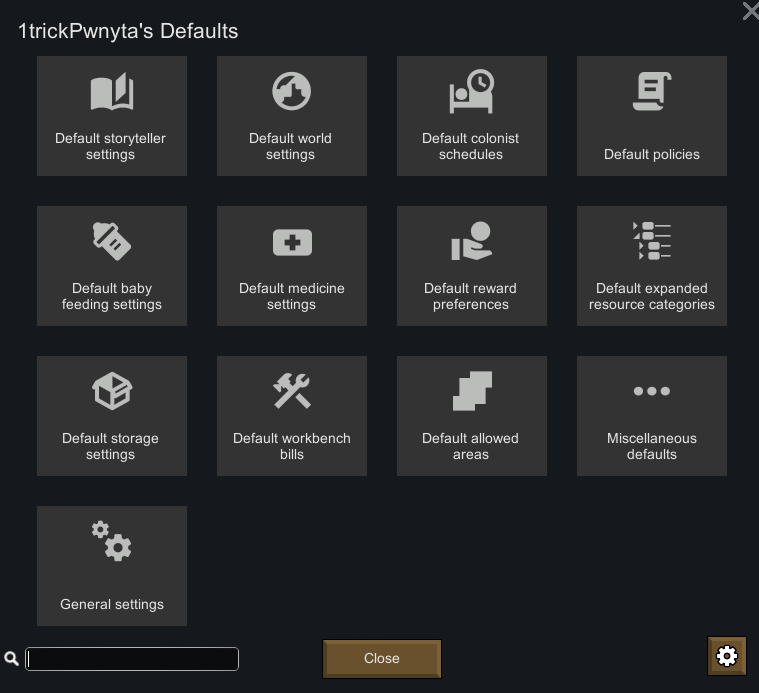
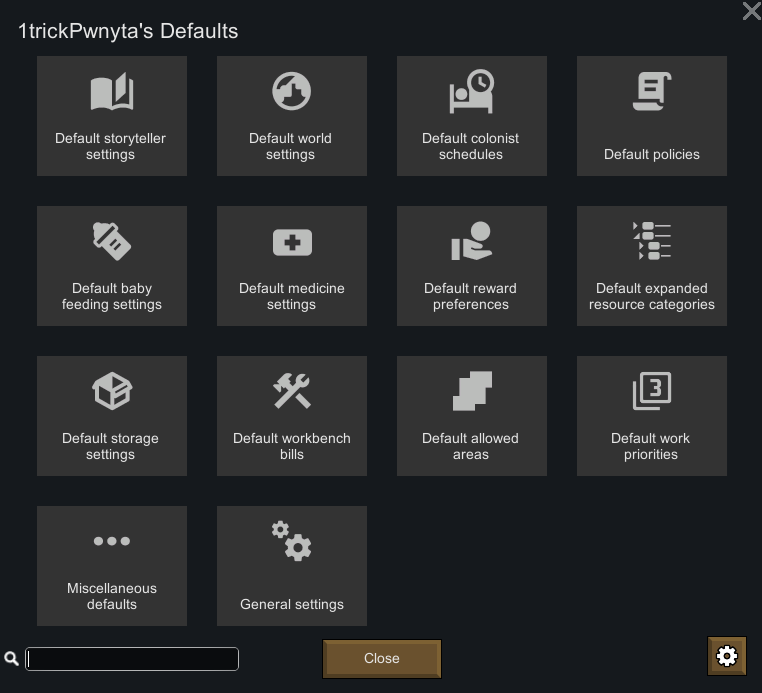
Update media

diff --git a/Media/SettingsCategoryDescriptions.html b/Media/SettingsCategoryDescriptions.html
@@ -1,0 +1,227 @@
+<html>
+	<head>
+		<style>
+			body {
+				background-color: #1B2838;
+				max-width: 628px;
+				font-family: sans-serif;
+				font-size: 15px;
+				margin: 0px;
+			}
+			
+			.category {
+				border: 2px solid #BBBDBB;
+				border-radius: 2px;
+				background-color: #15191D;
+				color: #BBBDBB;
+				padding: 10px;
+				box-shadow: 2px 2px black;
+				margin-bottom: 10px;
+			}
+			
+			.category .category-header {
+				display: table-row;
+			}
+			
+			.category .category-header img {
+				display: table-cell;
+				vertical-align: middle;
+				margin-right: 10px;
+				width: 50px;
+			}
+			
+			.category .category-header .category-title {
+				display: table-cell;
+				vertical-align: middle;
+				font-family: "Wendy One";
+				font-size: 30px;
+			}
+			
+			.category .category-body {
+				margin-top: 10px;
+			}
+			
+			.category .category-body ul {
+				margin: 0px;
+			}
+			
+			.category .category-body ul li {
+				padding-top: 5px;
+			}
+			
+			.category .category-additional {
+				display: table-cell;
+				padding-top: 10px;
+				padding-left: 30px;
+				height: 30px;
+				vertical-align: middle;
+				background-image: url("QuickOptions.png");
+				background-repeat: no-repeat;
+				background-position: 0px 10px;
+			}
+			
+			.category .category-footer {
+				margin-top: 10px;
+			}
+			
+			.dlc-required {
+				color: #888788;
+				font-style: italic;
+			}
+		</style>
+	</head>
+	<body>
+	
+		<div class="category">
+			<div class="category-header">
+				<img src="../1.6/Textures/DefaultSettingsCategoryIcons/Storyteller.png" />
+				<span class="category-title">Default storyteller settings</span>
+			</div>
+			<div class="category-body">
+				Set the default storyteller/difficulty settings to use for a new colony, including custom difficulty settings.
+			</div>
+		</div>
+		
+		<div class="category">
+			<div class="category-header">
+				<img src="../1.6/Textures/DefaultSettingsCategoryIcons/World.png" />
+				<span class="category-title">Default world settings</span>
+			</div>
+			<div class="category-body">
+				Set the default world and map settings to use for a new colony.
+			</div>
+		</div>
+		
+		<div class="category">
+			<div class="category-header">
+				<img src="../1.6/Textures/DefaultSettingsCategoryIcons/Schedule.png" />
+				<span class="category-title">Default colonist schedules</span>
+			</div>
+			<div class="category-body">
+				Set custom default schedules for colonists. You can create alternating schedules and the mod will cycle between them when assigning them to new colonists.
+			</div>
+		</div>
+		
+		<div class="category">
+			<div class="category-header">
+				<img src="../1.6/Textures/DefaultSettingsCategoryIcons/Policies.png" />
+				<span class="category-title">Default policies</span>
+			</div>
+			<div class="category-body">
+				Set custom default apparel, food, drug, and reading policies that will be copied to each new colony.
+			</div>
+		</div>
+		
+		<div class="category">
+			<div class="category-header">
+				<img src="../1.6/Textures/DefaultSettingsCategoryIcons/BabyFeeding.png" />
+				<span class="category-title">Default baby feeding settings</span>
+			</div>
+			<div class="category-body">
+				Set the default autofeed setting for colonists based on relationship to baby and whether they are lactating. Also allows you to set which foods babies can be fed by default.
+			</div>
+			<div class="category-footer">
+				<span class="dlc-required">Biotech only.</span>
+			</div>
+		</div>
+		
+		<div class="category">
+			<div class="category-header">
+				<img src="../1.6/Textures/DefaultSettingsCategoryIcons/Medicine.png" />
+				<span class="category-title">Default medicine settings</span>
+			</div>
+			<div class="category-body">
+				Set the default medicine settings to use for a new colony.
+			</div>
+			<div class="category-additional">
+				Includes additional settings for default medicine type and amount to carry and whether guests should carry your medicine as well.
+			</div>
+		</div>
+		
+		<div class="category">
+			<div class="category-header">
+				<img src="../1.6/Textures/DefaultSettingsCategoryIcons/Rewards.png" />
+				<span class="category-title">Default reward preferences</span>
+			</div>
+			<div class="category-body">
+				Set the default reward preferences to use for a new colony.
+			</div>
+		</div>
+		
+		<div class="category">
+			<div class="category-header">
+				<img src="../1.6/Textures/DefaultSettingsCategoryIcons/ResourceCategories.png" />
+				<span class="category-title">Default expanded resource categories</span>
+			</div>
+			<div class="category-body">
+				Set which resource tree categories are expanded by default in categorized mode.
+			</div>
+		</div>
+		
+		<div class="category">
+			<div class="category-header">
+				<img src="../1.6/Textures/DefaultSettingsCategoryIcons/Storage.png" />
+				<span class="category-title">Default storage settings</span>
+			</div>
+			<div class="category-body">
+				Configure the default settings for stockpile zones, dumping stockpile zones, and storage buildings such as shelves. You can also create your own custom stockpile zone types with their own settings.
+			</div>
+			<div class="category-additional">
+				Includes an additional setting for allowing removing items from outfit stands by default <span class="dlc-required">(Odyssey only)</span>.
+			</div>
+		</div>
+		
+		<div class="category">
+			<div class="category-header">
+				<img src="../1.6/Textures/DefaultSettingsCategoryIcons/WorkbenchBills.png" />
+				<span class="category-title">Default workbench bills</span>
+			</div>
+			<div class="category-body">
+				Set default bills for workbenches that will populate automatically upon building a workbench. Configure default global settings for new bills.
+			</div>
+		</div>
+		
+		<div class="category">
+			<div class="category-header">
+				<img src="../1.6/Textures/DefaultSettingsCategoryIcons/AllowedAreas.png" />
+				<span class="category-title">Default allowed areas</span>
+			</div>
+			<div class="category-body">
+				Create default allowed areas for new colonies and control which types of pawns get automatically assigned to which areas.
+			</div>
+		</div>
+		
+		<div class="category">
+			<div class="category-header">
+				<img src="../1.6/Textures/DefaultSettingsCategoryIcons/WorkPriorities.png" />
+				<span class="category-title">Default work priorities</span>
+			</div>
+			<div class="category-body">
+				Create default work priorities for new colonists based on their passions and skills.
+			</div>
+			<div class="category-additional">
+				Includes an additional setting for using manual work priorities by default.
+			</div>
+		</div>
+		
+		<div class="category">
+			<div class="category-header">
+				<img src="../1.6/Textures/DefaultSettingsCategoryIcons/Misc.png" />
+				<span class="category-title">Miscellaneous defaults</span>
+			</div>
+			<div class="category-body">
+				Other default settings that don't fit neatly into one of the other categories. These include:
+				<ul>
+					<li><b>Hostility response: </b>Set the default hostility response to use for new colonists.</li>
+					<li><b>Pregnancy approach: </b>Set the default pregnancy approach that new romantic colonist relationships will take. <span class="dlc-required">(Biotech only.)</span></li>
+					<li><b>Auto rebuild setting: </b>Set the default auto-rebuild setting to use for a new colony.</li>
+					<li><b>Auto home area setting: </b>Set the default auto-home area setting to use for a new colony.</li>
+					<li><b>Plant type: </b>Set the default plant type for new growing zones.</li>
+					<li><b>Temperature targets: </b>Set the default temperature targets for heaters and coolers.</li>
+					<li><b>Mech work modes: </b>Set the default work modes for the initial two mechanitor control groups as well as a mode for all additional control groups granted by control sublinks. <span class="dlc-required">(Biotech only.)</span></li>
+				</ul>
+			</div>
+		</div>
+		
+	</body>
+</html>
